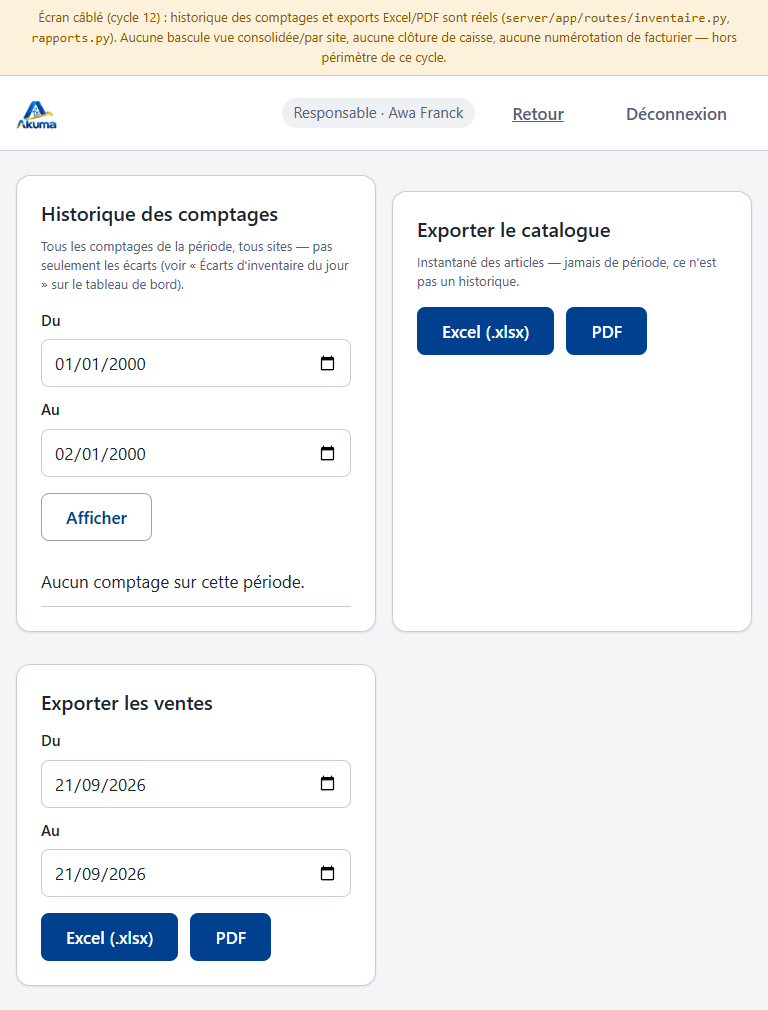
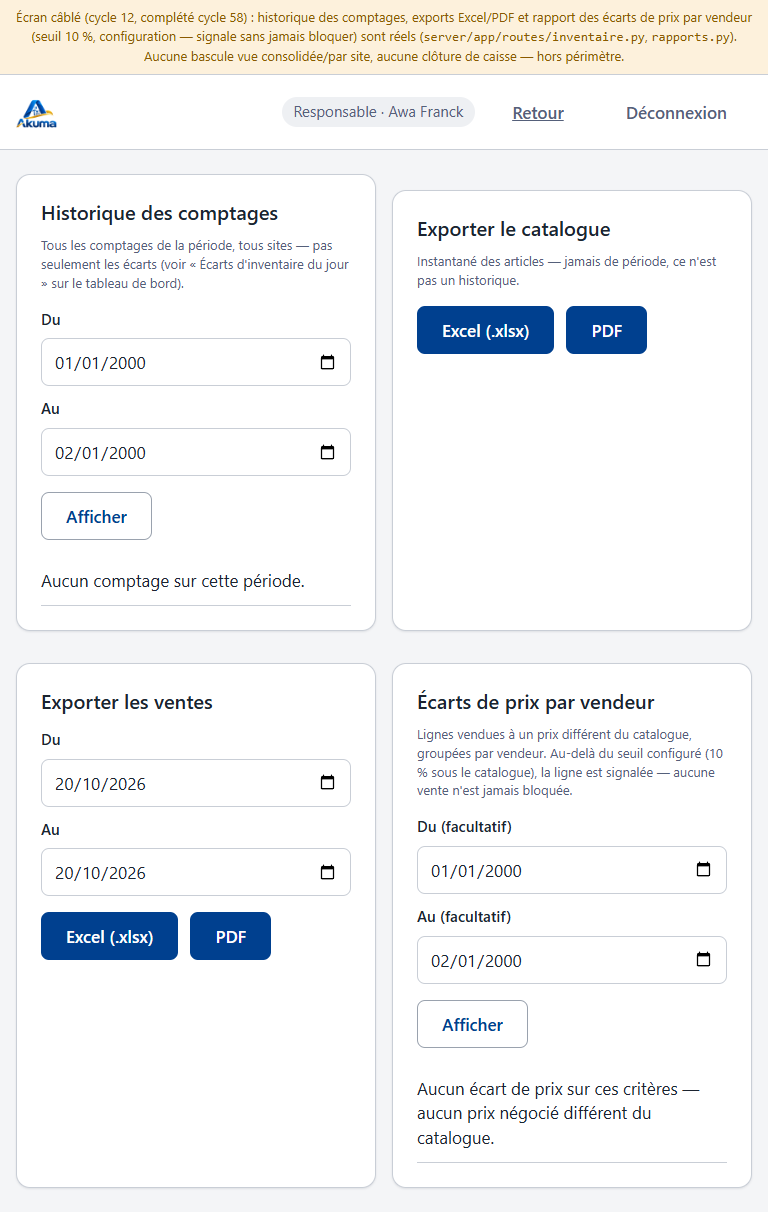
Correctif + Playwright — rapport écarts : dates optionnelles sans 500, parcours UI complet (cycle 58, C5)
Sans date, la requête levait IndeterminateDatatype (« could not determine
data type of parameter $1 ») : un paramètre %s nu comparé à NULL n'a pas de
type. Casts %s::date explicites ; détecté par l'exécution Playwright réelle
(HTTP 500), pas par les tests pytest seuls.

Extension du vérificateur navigateur : vente semée MAG-UI-ECART (12 % et
8 %), carte visible pour responsable et agent comptabilité, invisible pour
agent stock, filtre de période, captures régénérées.

diff --git a/server/app/routes/rapports.py b/server/app/routes/rapports.py
@@ -265,8 +265,8 @@ def rapports_ecarts_prix_vendeurs(
                        ecart_unitaire, ecart_total, ecart_pct, seuil_pct, signale
                   FROM ecarts_prix_vendeurs
                  WHERE ecart_unitaire <> 0
-                   AND (%s IS NULL OR date_vente::date >= %s)
-                   AND (%s IS NULL OR date_vente::date <= %s)
+                   AND (%s::date IS NULL OR date_vente::date >= %s::date)
+                   AND (%s::date IS NULL OR date_vente::date <= %s::date)
                  ORDER BY vendeur_nom NULLS LAST, vendeur_id NULLS LAST,
                           date_vente, vente_id, article_id
                 """,
